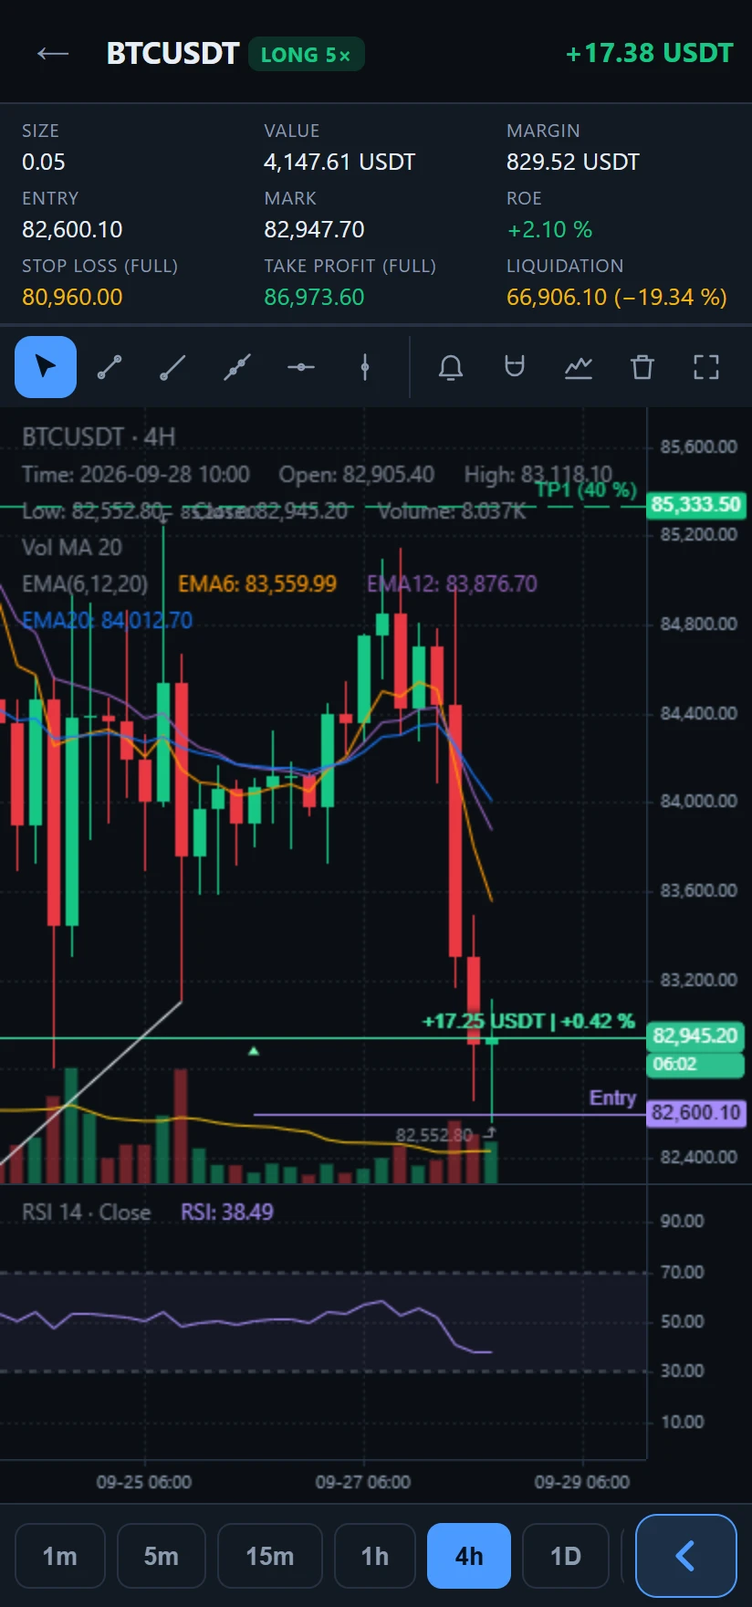
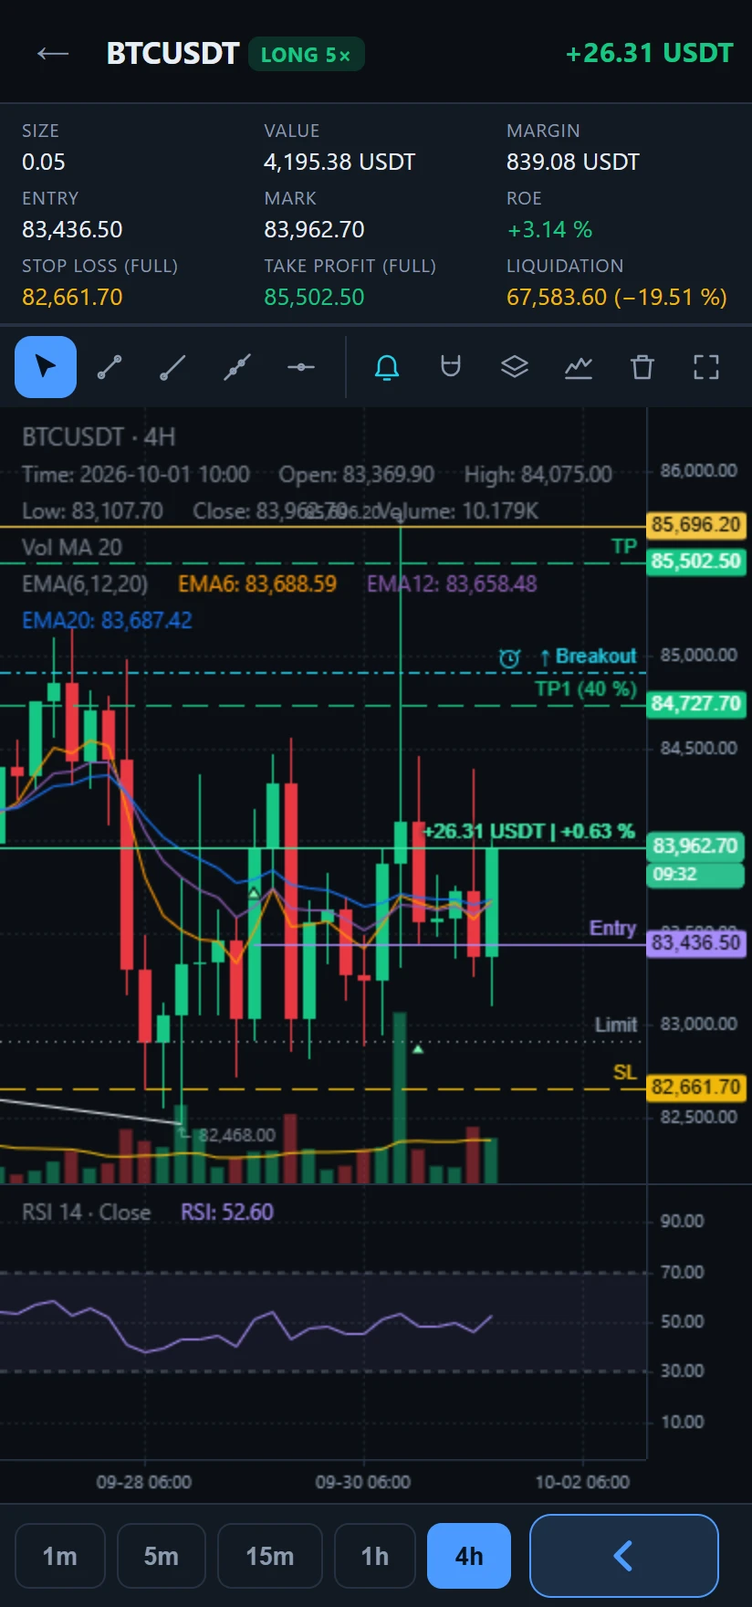
Web: aktualni funkce, nove snimky, zasady o serveru alarmu
- 9 funkci: push alarmy i se zhasnutym displejem, seznamy a kategorie,
  historie obchodu, zaloha uctu, vrstvy grafu
- galerie: pozice, seznamy, graf + rozevreny graf a okno alarmu
- bezpecnost: vynucene read-only, server alarmu bez klicu, zamek
- plan: burzy, RSI divergence, skener, Google Play
- zasady ochrany soukromi: Hetzner (server alarmu), Firebase (push),
  sekce Price alerts; ucet povinny. Podminky v1.1
- tools/snimky-web.py: podstrceny ucet, kategorie, seznamy, alarm

Claude-Session: https://claude.ai/code/session_015bSMKh62UKs2XyHsFmV9vj

diff --git a/web/public/index.html b/web/public/index.html
@@ -4,16 +4,16 @@
 <meta charset="utf-8">
 <meta name="viewport" content="width=device-width, initial-scale=1">
 <title>PerpyX — your perpetuals at a glance</title>
-<meta name="description" content="PerpyX is a read-only Android app for monitoring crypto perpetual positions — Bybit today, Binance, Hyperliquid and OKX next: live PnL, SL/TP ladders, funding, price alarms and a touch-first chart. Join the beta.">
+<meta name="description" content="PerpyX is a read-only Android app for monitoring crypto perpetual positions — Bybit today, Binance, Hyperliquid and OKX next: live PnL, SL/TP ladders, funding, push price alerts even with the screen off, watchlists and a touch-first chart. Join the beta.">
 <meta name="theme-color" content="#0b0f14">
 <link rel="icon" href="/icon-192.png" type="image/png">
 <link rel="apple-touch-icon" href="/icon-192.png">
 <meta property="og:title" content="PerpyX — your perpetuals at a glance">
-<meta property="og:description" content="A read-only position monitor for Android. Live PnL, SL/TP ladders, funding, alarms and a touch-first chart.">
+<meta property="og:description" content="A read-only position monitor for Android. Live PnL, SL/TP ladders, funding, push price alerts, watchlists and a touch-first chart.">
 <meta property="og:image" content="https://perpyx.com/img/graf-fold.webp">
 <meta property="og:type" content="website">
 <link rel="canonical" href="https://perpyx.com/">
-<link rel="stylesheet" href="/style.css?v=4">
+<link rel="stylesheet" href="/style.css?v=5">
 </head>
 <body>
 
@@ -49,7 +49,8 @@
         <h1>Your perpetuals, <span class="grad">at a glance.</span></h1>
         <p class="lead">PerpyX is a fast, read-only position monitor for traders who check their
           positions forty times a day. Live PnL, stop-loss and take-profit ladders, honest
-          funding numbers and a chart you can actually draw on with a thumb.</p>
+          funding numbers, price alerts that reach you even with the screen off — and a chart
+          you can actually draw on with a thumb.</p>
         <div class="hero-cta">
           <a class="btn" href="#beta">Join the beta</a>
           <a class="btn ghost" href="#features">See what it does</a>
@@ -86,7 +87,7 @@
         <div class="card">
           <div class="icon"><svg viewBox="0 0 24 24" fill="none" stroke="currentColor" stroke-width="2" stroke-linecap="round" stroke-linejoin="round"><path d="M3 12h4l3-8 4 16 3-8h4"/></svg></div>
           <h3>Live positions</h3>
-          <p>Mark price, PnL and size stream in over WebSocket. No refresh button, no pull-to-reload.</p>
+          <p>Mark price, PnL and size stream in over WebSocket. Sort by size, PnL or distance to liquidation; the card turns red when liquidation gets close.</p>
         </div>
         <div class="card">
           <div class="icon"><svg viewBox="0 0 24 24" fill="none" stroke="currentColor" stroke-width="2" stroke-linecap="round"><path d="M3 12h18"/><path d="M6 8v8M12 6v12M18 9v6"/></svg></div>
@@ -99,19 +100,34 @@
           <p>Next payment and its amount, the pair's real interval, and the total paid since <em>this</em> position opened — not since you first traded the pair.</p>
         </div>
         <div class="card">
-          <div class="icon"><svg viewBox="0 0 24 24" fill="none" stroke="currentColor" stroke-width="2" stroke-linecap="round"><path d="M12 3v6M12 15v6M3 12h6M15 12h6"/><circle cx="12" cy="12" r="1.5" fill="currentColor"/></svg></div>
-          <h3>Touch-first drawing</h3>
-          <p>A crosshair you steer from anywhere on the screen, so your finger never hides the point you're placing. Trendlines, levels, channels, Fibonacci, measure.</p>
+          <div class="icon"><svg viewBox="0 0 24 24" fill="none" stroke="currentColor" stroke-width="2" stroke-linecap="round" stroke-linejoin="round"><path d="M6 8a6 6 0 0 1 12 0c0 7 3 9 3 9H3s3-2 3-9"/><path d="M10.3 21a1.94 1.94 0 0 0 3.4 0"/></svg></div>
+          <h3>Alerts, even with the screen off</h3>
+          <p>On a price level, on a trendline you drew, or at a point in time. Our server watches the price and sends a push notification; tap it and the chart opens with your position.</p>
         </div>
         <div class="card">
-          <div class="icon"><svg viewBox="0 0 24 24" fill="none" stroke="currentColor" stroke-width="2" stroke-linecap="round" stroke-linejoin="round"><path d="M6 8a6 6 0 0 1 12 0c0 7 3 9 3 9H3s3-2 3-9"/><path d="M10.3 21a1.94 1.94 0 0 0 3.4 0"/></svg></div>
-          <h3>Price alarms</h3>
-          <p>Alert on a price level, on a trendline you drew, or at a point in time. Turn any drawing into an alarm with one tap.</p>
+          <div class="icon"><svg viewBox="0 0 24 24" fill="none" stroke="currentColor" stroke-width="2" stroke-linecap="round" stroke-linejoin="round"><path d="M6 3h12v18l-6-4-6 4z"/></svg></div>
+          <h3>Watchlists &amp; categories</h3>
+          <p>Every perpetual on the exchange, filtered by category — AI, L1, DeFi, memes and more — plus your own lists you swipe between. Sort by volume, 24h change, funding or open interest.</p>
+        </div>
+        <div class="card">
+          <div class="icon"><svg viewBox="0 0 24 24" fill="none" stroke="currentColor" stroke-width="2" stroke-linecap="round"><path d="M12 3v6M12 15v6M3 12h6M15 12h6"/><circle cx="12" cy="12" r="1.5" fill="currentColor"/></svg></div>
+          <h3>Touch-first drawing</h3>
+          <p>A crosshair you steer from anywhere on the screen, so your finger never hides the point you're placing. Trendlines, levels, channels, Fibonacci, measure — saved per pair.</p>
         </div>
         <div class="card">
           <div class="icon"><svg viewBox="0 0 24 24" fill="none" stroke="currentColor" stroke-width="2" stroke-linecap="round" stroke-linejoin="round"><path d="M3 3v18h18"/><path d="m7 14 4-4 3 3 5-6"/></svg></div>
           <h3>A real chart</h3>
-          <p>Your entry, SL, TP, liquidation and open orders drawn on the chart, fills marked on the candles they happened in, plus RSI, EMA, Bollinger, volume profile and more.</p>
+          <p>Entry, SL, TP, liquidation and open orders on the chart, fills on the candles they happened in, live PnL line, plus RSI, EMA, Bollinger, volume profile and more. Hide any layer for a clean view.</p>
+        </div>
+        <div class="card">
+          <div class="icon"><svg viewBox="0 0 24 24" fill="none" stroke="currentColor" stroke-width="2" stroke-linecap="round" stroke-linejoin="round"><path d="M12 8v4l3 3"/><path d="M3.05 11a9 9 0 1 1 .5 4"/><path d="M3 4v5h5"/></svg></div>
+          <h3>Trade history</h3>
+          <p>Your closed trades with PnL — tap one to see its chart with every entry and exit marked where it actually happened.</p>
+        </div>
+        <div class="card">
+          <div class="icon"><svg viewBox="0 0 24 24" fill="none" stroke="currentColor" stroke-width="2" stroke-linecap="round" stroke-linejoin="round"><path d="M17.5 19a4.5 4.5 0 1 0-1.4-8.8A6 6 0 0 0 4.5 12 3.5 3.5 0 0 0 6 19z"/></svg></div>
+          <h3>Your setup, backed up</h3>
+          <p>Sign in with a code from your email — no password. Watchlists, drawings, alerts and settings are backed up automatically and come back on a new phone. API keys never leave the device.</p>
         </div>
       </div>
     </div>
@@ -124,10 +140,14 @@
         <h2>Made for one hand — and for the big screen when you unfold.</h2>
         <p>Designed and tested on a foldable: a compact list on the cover screen, a full-width chart when you open it up.</p>
       </div>
-      <div class="gallery">
-        <figure><div class="phone"><img src="/img/pozice.webp" width="824" height="1760" loading="lazy" alt="Positions list"></div><figcaption>Positions</figcaption></figure>
+      <div class="gallery tri">
+        <figure><div class="phone"><img src="/img/pozice.webp" width="824" height="1760" loading="lazy" alt="Positions list with live PnL and SL/TP ladders"></div><figcaption>Positions</figcaption></figure>
+        <figure><div class="phone"><img src="/img/trhy.webp" width="824" height="1760" loading="lazy" alt="Markets with your own watchlists and category filters"></div><figcaption>Watchlists</figcaption></figure>
         <figure><div class="phone"><img src="/img/graf.webp" width="824" height="1760" loading="lazy" alt="Chart on a phone screen"></div><figcaption>Chart</figcaption></figure>
-        <figure class="wide"><div class="phone"><img src="/img/graf-fold.webp" width="1346" height="1682" loading="lazy" alt="Chart on an unfolded screen with entry, SL, TP, orders and indicators"></div><figcaption>Chart, unfolded</figcaption></figure>
+      </div>
+      <div class="gallery duo">
+        <figure><div class="phone"><img src="/img/graf-fold.webp" width="1346" height="1682" loading="lazy" alt="Chart on an unfolded screen with entry, SL, TP, orders and indicators"></div><figcaption>Chart, unfolded</figcaption></figure>
+        <figure><div class="phone"><img src="/img/alarm.webp" width="1346" height="1682" loading="lazy" alt="Setting a price alert on the chart"></div><figcaption>Price alert</figcaption></figure>
       </div>
     </div>
   </section>
@@ -141,7 +161,9 @@
           <li><div><strong>It can't trade.</strong> PerpyX only reads positions, orders and balances. It has no code path that places an order.</div></li>
           <li><div><strong>Keys stay on your phone.</strong> Your API key and secret are stored on the device, never on our servers.</div></li>
           <li><div><strong>Signed locally.</strong> Each request is signed on the phone; only the signature travels to Bybit, never the secret.</div></li>
-          <li><div><strong>Use a read-only key.</strong> We ask for one, and you can revoke it on Bybit at any time.</div></li>
+          <li><div><strong>Read-only, enforced.</strong> PerpyX checks the key's permissions and refuses one that can trade or withdraw. You can revoke it on Bybit at any time.</div></li>
+          <li><div><strong>Alerts without your keys.</strong> The alert server only gets your alert levels and pairs. It watches public prices — it never sees your keys, positions or balance.</div></li>
+          <li><div><strong>Optional app lock.</strong> A PIN, with your fingerprint as a shortcut, so nobody holding your unlocked phone sees your positions.</div></li>
         </ul>
       </div>
       <div class="flow" aria-hidden="true">
@@ -149,7 +171,9 @@
         <div class="arrow">↓ signed request only</div>
         <div class="step"><div><b>Bybit API</b><span>read-only: positions, orders, balance</span></div></div>
         <div class="arrow">↓ live data</div>
-        <div class="step"><div><b>PerpyX</b><span>PnL, ladders, funding, chart, alarms</span></div></div>
+        <div class="step"><div><b>PerpyX</b><span>PnL, ladders, funding, chart, alerts</span></div></div>
+        <div class="arrow">↑ push when an alert fires</div>
+        <div class="step"><div><b>Alert server</b><span>public prices + your alert levels only</span></div></div>
       </div>
     </div>
   </section>
@@ -161,10 +185,10 @@
         <h2>Where it's heading.</h2>
       </div>
       <div class="roadmap">
-        <div class="card"><span class="tag">Next</span><h3>Alerts with the screen off</h3><p>Push notifications for alarms, even when the phone is asleep.</p></div>
-        <div class="card"><span class="tag">Next</span><h3>Categories &amp; watchlists</h3><p>AI, L1, DeFi, memes… plus your own lists you swipe between.</p></div>
-        <div class="card"><span class="tag">Planned</span><h3>RSI divergences</h3><p>Bullish and bearish divergences on the chart, then a scanner across your lists.</p></div>
-        <div class="card"><span class="tag">Next</span><h3>More exchanges</h3><p>Binance, Hyperliquid and OKX next — all your positions across exchanges in one list.</p></div>
+        <div class="card"><span class="tag">Next</span><h3>More exchanges</h3><p>Binance, Hyperliquid and OKX — all your positions across exchanges in one list.</p></div>
+        <div class="card"><span class="tag">Next</span><h3>RSI divergences</h3><p>Bullish and bearish divergences marked right on the chart.</p></div>
+        <div class="card"><span class="tag">Planned</span><h3>Divergence scanner</h3><p>Scans your watchlists on the server and pings you when a setup appears.</p></div>
+        <div class="card"><span class="tag">Planned</span><h3>Google Play</h3><p>A public release on Google Play after the beta.</p></div>
       </div>
     </div>
   </section>
@@ -185,7 +209,7 @@
         <div>
           <div class="kicker">Private beta</div>
           <h2>Want in early?</h2>
-          <p>Leave your email and we'll invite you when the next beta round opens. Android only for now. No spam — just beta invites and major updates.</p>
+          <p>Leave your email and we'll invite you when the next beta round opens. Android only for now. Beta testers can report a bug or an idea with screenshots right from the app. No spam — just beta invites and major updates.</p>
         </div>
         <form id="signup" novalidate>
           <div class="field">

diff --git a/web/public/privacy.html b/web/public/privacy.html
@@ -37,7 +37,7 @@
 
 <main class="wrap doc">
   <h1>Privacy policy</h1>
-  <p class="updated">Last updated: 28 September 2026 (PerpyX accounts, providers)</p>
+  <p class="updated">Last updated: 1 October 2026 (price alerts and push notifications, accounts required)</p>
 
   <p>PerpyX is an independent project, not affiliated with Bybit. This page explains what
     data we handle on this website and in the PerpyX app, and why. The short version: we
@@ -80,16 +80,21 @@
     USA). Like any web host, GitHub processes the IP address of your device when the app loads
     or updates; we receive no data from it. Transfers are covered by the EU–US Data Privacy
     Framework and the EU Standard Contractual Clauses.</p>
-  <p>If we add other providers — for example a server in the EU for alarm push notifications
-    or Google Play for distribution and payments — we will list them here before they are
-    used.</p>
+  <p>The alert server that watches prices for your price alerts runs at Hetzner Online GmbH
+    (Germany, EU), which acts as our processor. Push notifications are delivered through
+    Firebase Cloud Messaging (Google Ireland Ltd. / Google LLC, USA), which acts as our
+    processor; transfers are covered by the EU–US Data Privacy Framework and the EU Standard
+    Contractual Clauses. What they process is described under “Price alerts” below.</p>
+  <p>If we add other providers — for example Google Play for distribution and payments — we
+    will list them here before they are used.</p>
 
   <h2>No cookies, no tracking</h2>
   <p>This website uses no cookies, no analytics and no third-party scripts or fonts. Our
     emails contain no tracking pixels and no tracked links.</p>
 
-  <h2>PerpyX account (optional)</h2>
-  <p>You can use PerpyX without an account. If you sign in, we store:</p>
+  <h2>PerpyX account</h2>
+  <p>To use the app you sign in with your email address (a one-time code, no password). We
+    store:</p>
   <ul>
     <li>your email address and when the account was created,</li>
     <li>a sign-in session per device (stored only as a one-way hash),</li>
@@ -106,6 +111,20 @@
     through Resend. A session unused for a year expires. You can delete your account and all
     its backups at any time in the app (Settings → PerpyX account → Delete account); accounts
     unused for 12 months may be deleted after we notify you by email.</p>
+
+  <h2>Price alerts</h2>
+  <p>So that your price alerts work even when your phone is asleep, the app sends them to our
+    server: the pair, the alert level (or the points of the line, or the time), the condition,
+    whether it repeats, when it expires, your optional message and the app language. It also
+    sends a push token — a random identifier Android issues for notifications to your device.
+    Our alert server reads <strong>public</strong> prices from Bybit and, when a level is
+    crossed, sends a notification through Firebase Cloud Messaging; Google receives the push
+    token and the notification text (the pair, the price and your message). We record when
+    an alert fired, so the app can show it.</p>
+  <p>Your API keys, positions, orders and balances are never sent to the alert server. The
+    legal basis is the performance of the service you asked for (Art. 6(1)(b) GDPR). An alert
+    you delete in the app is deleted on the server too; signing out removes the push token of
+    that device, and deleting your account deletes all your alerts and tokens.</p>
 
   <h2>Reports from the app</h2>
   <p>During the beta you can report a problem or an idea from the app. We receive your text,
@@ -127,11 +146,12 @@
       us. Bybit receives your requests (and so your IP address) as it does from its own app;
       it is a separate controller under its own privacy policy. Your drawings, alarms and settings are stored on your device — and, only if you sign
       in to a PerpyX account, backed up as described above.</li>
-    <li>PerpyX works with read-only keys and cannot place orders.</li>
+    <li>PerpyX works with read-only keys and cannot place orders; it refuses keys that can
+      trade or withdraw.</li>
+    <li>The optional app lock (PIN, with fingerprint as a shortcut) stays on your device. The
+      PIN is stored only as a salted hash; your fingerprint is checked by Android and never
+      reaches the app or us.</li>
   </ul>
-  <p>If a future version adds features that need a server (for example push notifications
-    for alarms while your screen is off), we will update this policy before they launch and
-    explain exactly what is sent. API keys will stay on your device.</p>
 
   <h2>Your rights</h2>
   <p>Under the GDPR you have the right to access your data, to have it corrected or deleted,

diff --git a/web/public/terms.html b/web/public/terms.html
@@ -37,9 +37,9 @@
 
 <main class="wrap doc">
   <h1>Terms of use</h1>
-  <p class="updated">Version 1 · effective 29 September 2026 · free beta</p>
+  <p class="updated">Version 1.1 · effective 1 October 2026 · free beta</p>
 
-  <p>These terms apply to the PerpyX app, the website perpyx.com and the optional PerpyX
+  <p>These terms apply to the PerpyX app, the website perpyx.com and the PerpyX
     account (together “PerpyX”). PerpyX is provided by Roman Spacek, Czech Republic
     (“we”, “us”). Contact: <a href="mailto:hello@perpyx.com">hello@perpyx.com</a>.
     By using PerpyX you agree to these terms. If you don't agree, please don't use it.</p>
@@ -85,8 +85,8 @@
 
   <h2>6. PerpyX account</h2>
   <ul>
-    <li>The account is optional during the beta. You need access to the email address you sign
-      in with. One account is for one person.</li>
+    <li>You need an account to use the app; you sign in with a one-time code sent to your
+      email, so you need access to that address. One account is for one person.</li>
     <li>You can delete your account and its backups at any time in the app.</li>
     <li>We may suspend or delete an account that is used to abuse or attack the service, or
       that has been unused for a long time as described in the

diff --git a/web/public/style.css b/web/public/style.css
@@ -140,7 +140,9 @@ h2 { font-size: clamp(1.7rem, 3.4vw, 2.3rem); line-height: 1.15; margin: 0 0 12p
 .icon svg { width: 22px; height: 22px; }
 
 /* ---- galerie snímků ---- */
-.gallery { display: grid; grid-template-columns: 1fr 1fr 1.62fr; gap: 20px; align-items: start; }
+.gallery { display: grid; gap: 20px; align-items: start; }
+.gallery.tri { grid-template-columns: repeat(3, 1fr); }
+.gallery.duo { grid-template-columns: 1fr 1fr; margin-top: 28px; }
 .gallery figure { margin: 0; }
 .gallery figcaption { color: var(--muted); font-size: 0.92rem; margin-top: 12px; text-align: center; }
 
@@ -224,14 +226,14 @@ footer a:hover { color: var(--text); }
   .shots { max-width: 520px; margin-inline: auto; }
   .grid { grid-template-columns: 1fr 1fr; }
   .roadmap { grid-template-columns: 1fr 1fr; }
-  .gallery { grid-template-columns: 1fr 1fr; }
-  .gallery figure.wide { grid-column: 1 / -1; }
+  .gallery.duo { grid-template-columns: 1fr; }
   .beta { padding: 32px 24px; }
 }
 @media (max-width: 560px) {
   body { font-size: 16px; }
   section { padding: 52px 0; }
   .grid, .roadmap { grid-template-columns: 1fr; }
+  .gallery.tri { gap: 10px; }
   .field { flex-direction: column; }
   .top .btn.small { display: none; }
 }

diff --git a/tools/snimky-web.py b/tools/snimky-web.py
@@ -87,6 +87,24 @@ kresby = [
      'style': {'color': '#f5c542', 'width': 1, 'opacity': 1}},
 ]
 
+# Alarm na BTC kousek nad aktuální cenou — kvůli snímku okna alarmu.
+alarm_cena = round(ceny['BTCUSDT'] * 1.012, 1)
+alarmy_data = [{'id': 'snimek1', 'symbol': 'BTCUSDT', 'typ': 'cena', 'price': alarm_cena,
+                'smer': 'up', 'opakovat': False, 'platnostDnu': 7, 'aktivni': True, 'zprava': 'Breakout'}]
+
+# Kategorie z webu (stejný soubor, který si stáhne aplikace tlačítkem
+# Identify coins) a dva seznamy, ať jsou na snímku Trhů vidět.
+kategorie = json.load(urllib.request.urlopen(urllib.request.Request(
+    'https://perpyx.com/data/kategorie.json', headers={'User-Agent': 'Mozilla/5.0'}), timeout=15))
+kategorie['stazeno'] = TED
+seznamy = {'verze': 1, 'aktivni': 'fav', 'seznamy': [
+    {'id': 'fav', 'nazev': 'My watchlist', 'polozky': ['bybit:' + s for s in (
+        'BTCUSDT', 'ETHUSDT', 'SOLUSDT', 'WLDUSDT', 'XRPUSDT', 'DOGEUSDT', 'SUIUSDT', 'HYPEUSDT',
+        'TAOUSDT', 'LINKUSDT', 'AVAXUSDT', 'PEPEUSDT' if False else '1000PEPEUSDT')]},
+    {'id': 'ai', 'nazev': 'AI plays', 'polozky': ['bybit:' + s for s in (
+        'TAOUSDT', 'FETUSDT', 'WLDUSDT', 'RENDERUSDT', 'VIRTUALUSDT')]},
+]}
+
 podstrc = r"""
 (() => {
   if (navigator.serviceWorker) {
@@ -104,12 +122,25 @@ podstrc = r"""
   localStorage.setItem('perpdesk.indicators', JSON.stringify(['VOL', 'EMA', 'RSI']));
   localStorage.setItem('perpdesk.favourites', JSON.stringify(['BTCUSDT', 'ETHUSDT', 'SOLUSDT', 'WLDUSDT']));
   localStorage.setItem('perpdesk.drawings.BTCUSDT', JSON.stringify(%(kresby)s));
+  // Aplikace od v0.23 chce účet; podstrčený (volání perpyx.com/api se
+  // zachytí níž). Upozornění a bublina hlášení na snímky nepatří.
+  localStorage.setItem('perpdesk.session', JSON.stringify({ token: '0'.repeat(64), email: 'demo@perpyx.com' }));
+  localStorage.setItem('perpdesk.disclaimerSeen', '1');
+  localStorage.setItem('perpdesk.alarms', JSON.stringify(%(alarmy)s));
+  localStorage.setItem('perpdesk.coinCategories', JSON.stringify(%(kategorie)s));
+  localStorage.setItem('perpdesk.lists', JSON.stringify(%(seznamy)s));
+  localStorage.removeItem('perpdesk.layers');
+  const bezBubliny = document.createElement('style');
+  bezBubliny.textContent = '#feedbackBtn { display: none !important; }';
+  document.addEventListener('DOMContentLoaded', () => document.head.appendChild(bezBubliny));
   const ok = (t) => Promise.resolve(new Response(JSON.stringify(t),
     { status: 200, headers: { 'Content-Type': 'application/json' } }));
   const skutecny = window.fetch.bind(window);
   window.fetch = function (vstup, volby) {
     const u = String(vstup && vstup.url ? vstup.url : vstup);
     const q = new URL(u, location.origin).searchParams;
+    // Hlídač „žije" — jinak by okno alarmu psalo, že server není dostupný.
+    if (u.includes('perpyx.com/api/')) return ok({ ok: true, alarms: [], watcherSeen: new Date().toISOString() });
     if (u.includes('/v5/position/list')) return ok({ retCode: 0, result: { list: POZICE } });
     if (u.includes('/v5/order/realtime')) {
       const s = q.get('symbol');
@@ -156,9 +187,26 @@ podstrc = r"""
   window.WebSocket.OPEN = 1;
   window.WebSocket.CONNECTING = 0;
   window.WebSocket.CLOSED = 3;
+  // Push jako v APK (podstrčený), ať aplikace ví, že alarmy hlídá server.
+  const posl = {};
+  window.Capacitor = { isNativePlatform: () => true, Plugins: { PushNotifications: {
+    createChannel: async () => {},
+    checkPermissions: async () => ({ receive: 'granted' }),
+    requestPermissions: async () => ({ receive: 'granted' }),
+    addListener: async (j, fn) => { (posl[j] ||= []).push(fn); return { remove() {} }; },
+    register: async () => { setTimeout(() => (posl.registration || []).forEach((f) => f({ value: 'snimky' })), 20); },
+  } } };
+  // Instance grafu do window.__graf (kvůli klepnutí na hladinu alarmu).
+  (function cekej() {
+    if (!window.klinecharts || !window.klinecharts.init) return setTimeout(cekej, 50);
+    const puvodni = window.klinecharts.init;
+    window.klinecharts.init = function (...a) { return (window.__graf = puvodni.apply(this, a)); };
+  })();
 })();
 """ % {'pozice': json.dumps(pozice), 'prikazy': json.dumps(prikazy),
-       'plneni': json.dumps(plneni), 'kresby': json.dumps(kresby)}
+       'plneni': json.dumps(plneni), 'kresby': json.dumps(kresby),
+       'alarmy': json.dumps(alarmy_data), 'kategorie': json.dumps(kategorie),
+       'seznamy': json.dumps(seznamy)}
 
 p = Prohlizec()
 for c in ('Page.enable', 'Runtime.enable', 'Network.enable'):
@@ -208,5 +256,18 @@ spust(673, 841)
 ev("""[...document.querySelectorAll('.position')].find((k) => k.textContent.includes('BTCUSDT')).click()""")
 time.sleep(6)
 snimek('graf-fold.webp')
+
+# 5) Okno alarmu na rozevřeném Foldu — klepnutím na hladinu alarmu
+p.prikaz('Emulation.setTouchEmulationEnabled', enabled=True, maxTouchPoints=5)
+y = ev("""(() => { const v = document.getElementById('drawLayer').getBoundingClientRect();
+  const yy = window.__graf.convertToPixel({ value: %s }, { paneId: 'candle_pane' });
+  return v.top + (Array.isArray(yy) ? yy[0].y : yy.y); })()""" % alarm_cena)
+bod = [{'x': 300, 'y': y, 'radiusX': 10, 'radiusY': 10, 'force': 1, 'id': 1}]
+p.prikaz('Input.dispatchTouchEvent', type='touchStart', touchPoints=bod)
+time.sleep(0.05)
+p.prikaz('Input.dispatchTouchEvent', type='touchEnd', touchPoints=[])
+time.sleep(1.2)
+print('okno alarmu:', ev("!document.getElementById('sheetAlarm').hidden"))
+snimek('alarm.webp')
 
 print('chyby:', ev('(window.__chyby||[]).join(" | ")'))

diff --git a/CLAUDE.md b/CLAUDE.md
@@ -2069,7 +2069,18 @@ země. Duplicitní přihláška projde tiše, aby z odpovědi nešlo poznat, kdo
 na seznamu je. Proti robotům skryté pole (honeypot) a kontrola `Origin`.
 Souhlas je nezaškrtnutý checkbox s odkazem na `/privacy`.
 
-**Snímky aplikace** vyrábí `tools/snimky-web.py`: veřejná data (svíčky,
+**Obsah webu aktualizován 2026-10-01** (před rozesíláním odkazu na
+betu): 9 funkcí (push alarmy, seznamy a kategorie, historie, záloha,
+vrstvy), galerie 3 + 2 snímky (nově Trhy se seznamy a okno alarmu),
+bezpečnost (vynucené read-only, server alarmů bez klíčů, zámek), plán
+(burzy, divergence, skener, Google Play). ⚠ **Zásady ochrany soukromí
+doplněny o Hetzner a Firebase** a sekci „Price alerts" — slibovaly to
+„před spuštěním" a alarmy přitom už dva dny běžely. Podmínky v1.1: účet
+je povinný. Při další serverové funkci zásady upravit **předem**.
+
+**Snímky aplikace** vyrábí `tools/snimky-web.py` (od 2026-10-01 s
+podstrčeným účtem, kategoriemi z perpyx.com, dvěma seznamy, alarmem
+a „živým" hlídačem — jinak by vyfotil přihlašovací obrazovku): veřejná data (svíčky,
 trhy) jdou ze skutečného Bybitu, pozice a účet jsou vymyšlené kolem
 aktuálních cen — žádný klíč, nic ze skutečného účtu. Úrovně pozice
 a kresby na BTC se rozmístí podle posledních svíček, aby byly v grafu
